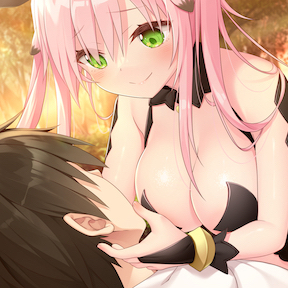
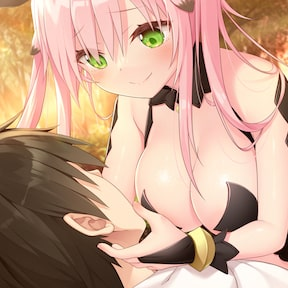
Compress image files

diff --git a/1/ja/index.html b/1/ja/index.html
@@ -100,9 +100,9 @@
                         <svg class='arrow pc_only_f' xmlns="http://www.w3.org/2000/svg" width="92.889" height="181.535" viewBox="0 0 92.889 181.535">
                             <path id="character_left" data-name="character_left" d="M262.742,3894.686l-89.707-89.707,89.707-89.707" transform="translate(-170.913 -3714.211)" fill="none" stroke="#333" stroke-miterlimit="10" stroke-width="3"/>
                         </svg>
-                        <img src='../img/character/mint.png' x-target='character1' class='button'>
-                        <img src='../img/character/lily.png' x-target='character2' class='button'>
-                        <img src='../img/character/kakao.png' x-target='character3' class='button'>
+                        <img src='../img/character/mint.jpg' x-target='character1' class='button'>
+                        <img src='../img/character/lily.jpg' x-target='character2' class='button'>
+                        <img src='../img/character/kakao.jpg' x-target='character3' class='button'>
                         <svg class='arrow pc_only_f' xmlns="http://www.w3.org/2000/svg" width="92.889" height="181.535" viewBox="0 0 92.889 181.535">
                             <path id="character_right" data-name="character_right" d="M1110.07,3715.272l89.707,89.707-89.707,89.707" transform="translate(-1109.009 -3714.211)" fill="none" stroke="#333" stroke-miterlimit="10" stroke-width="3"/>
                         </svg>
